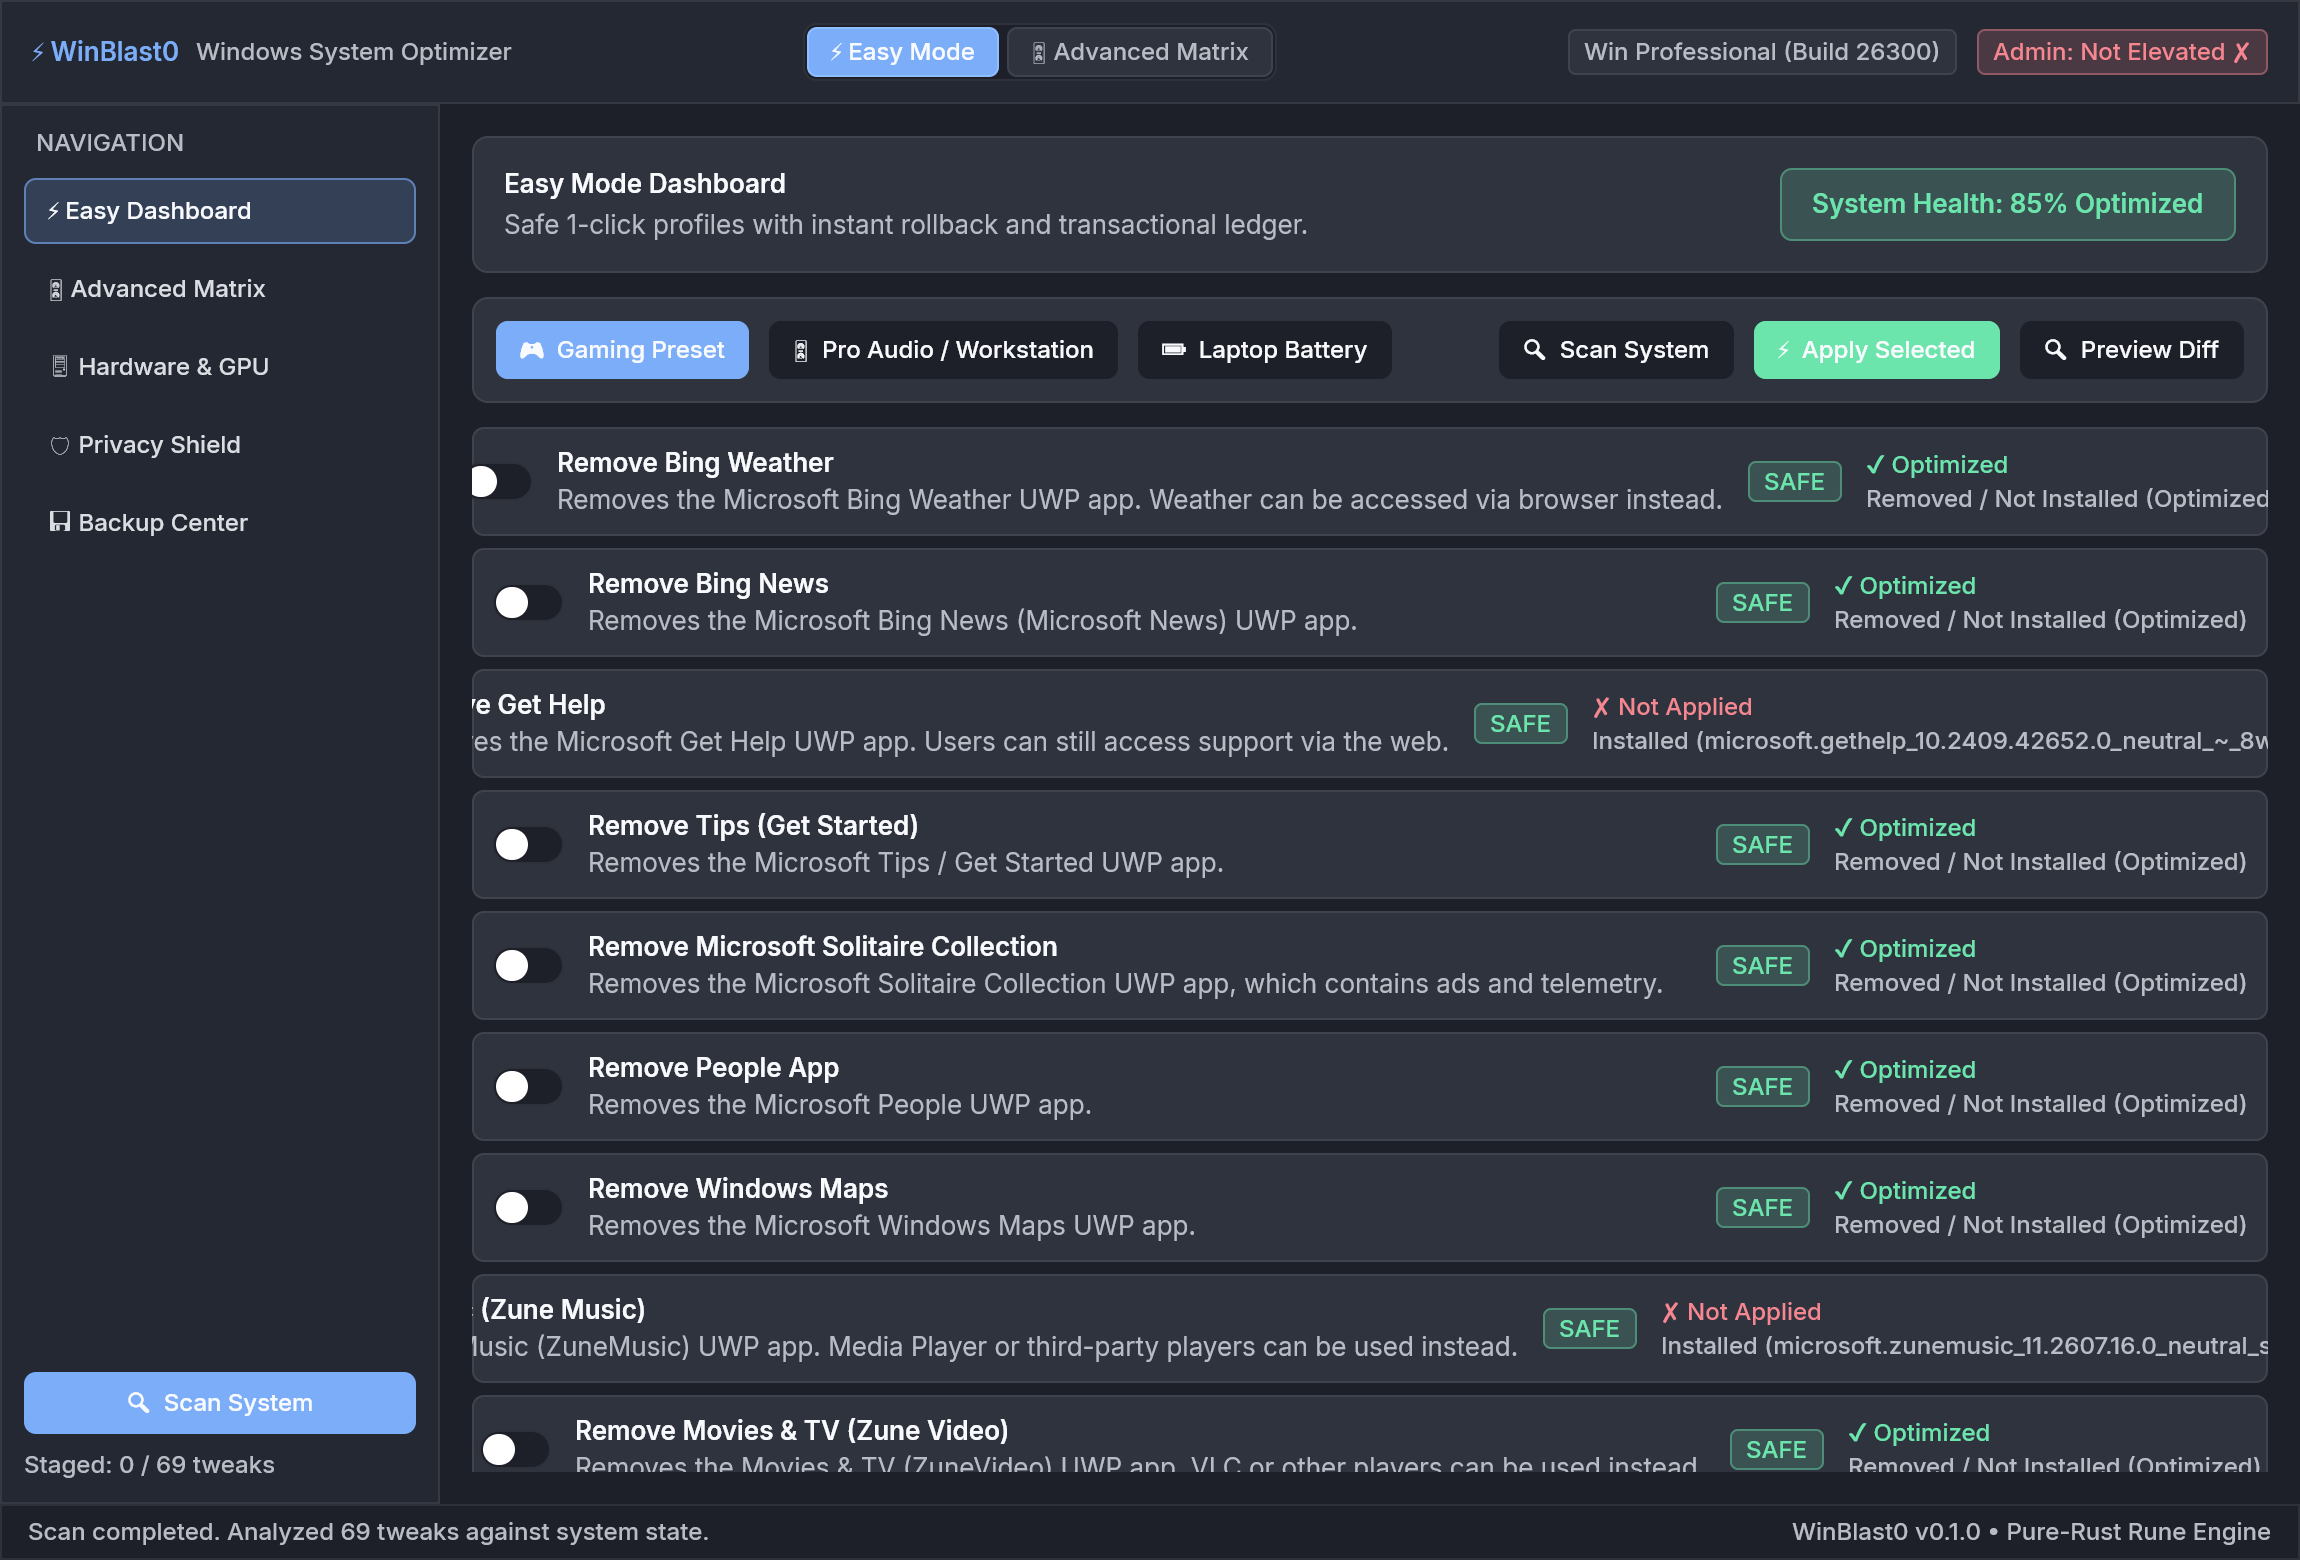
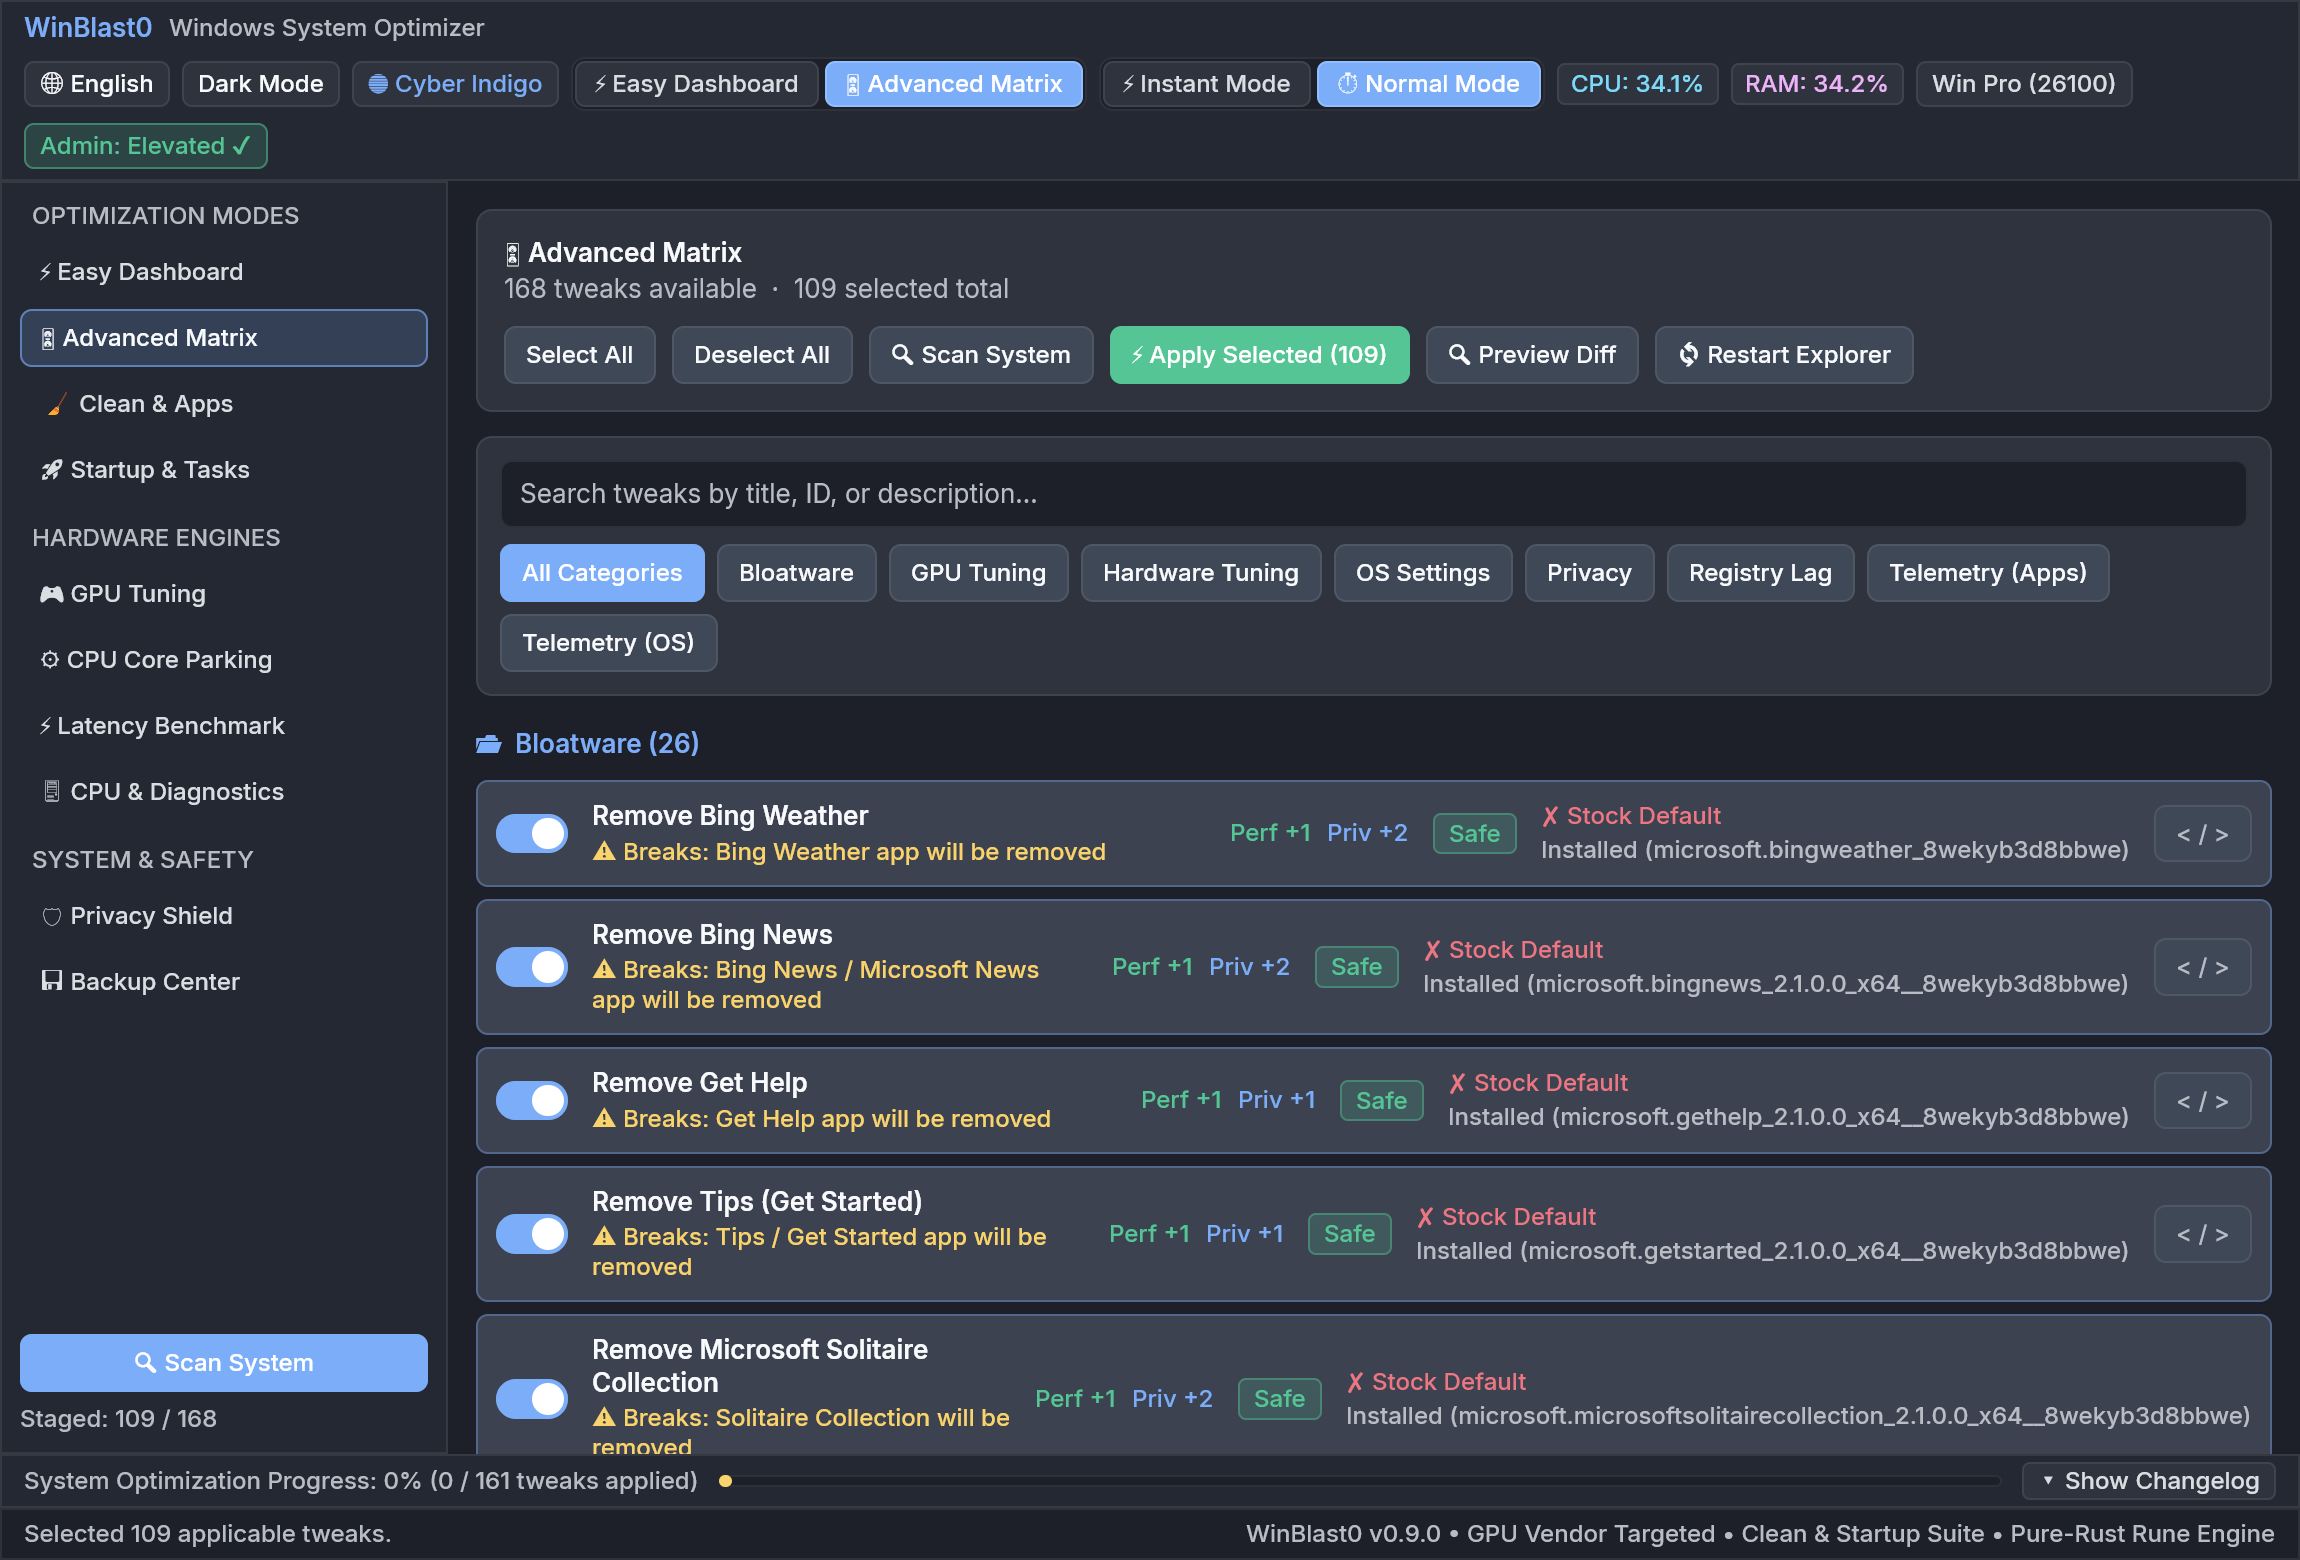
Docs: Replace Advanced Matrix and CPU Parking screenshots with authentic WinBlast0 v0.9.0 renders

diff --git a/tests/ui_responsive_e2e.rs b/tests/ui_responsive_e2e.rs
@@ -1455,6 +1455,65 @@ fn init_gpu_state() -> AppState {
     s
 }
 
+fn init_dashboard_state() -> AppState {
+    let mut s = build_populated_sandbox_state();
+    s.navigate(ActiveView::EasyDashboard);
+    s
+}
+
+#[test]
+fn snap_dashboard_view() {
+    let spec = rune::AppSpec::new(
+        "WinBlast0 Dashboard",
+        (1150.0, 780.0),
+        init_dashboard_state,
+        ui::view,
+    );
+    let out_path = std::path::Path::new("assets/screenshots/dashboard.png");
+    let res = rune::App::new(spec)
+        .args([
+            "--snap".to_string(),
+            out_path.to_string_lossy().to_string(),
+            "--size".to_string(),
+            "1150x780".to_string(),
+        ])
+        .try_run();
+    println!("Snap result: {:?}", res);
+    assert!(out_path.exists(), "Snapshot file should be created");
+}
+
+fn init_cpu_parking_state() -> AppState {
+    let mut s = build_populated_sandbox_state();
+    s.navigate(ActiveView::CoreParking);
+    let mut cores = Vec::new();
+    for i in 0..16 {
+        cores.push(winblast0::hardware::parking::CoreStatus {
+            core_index: i,
+            is_parked: i >= 12,
+            usage_pct: if i >= 12 { 0.0 } else { 18.0 + ((i * 5) % 40) as f32 },
+            core_type_label: if i < 8 { "P-Core".to_string() } else { "E-Core".to_string() },
+        });
+    }
+    s.core_parking = winblast0::hardware::parking::CoreParkingState {
+        total_cores: 16,
+        unparked_count: 12,
+        parked_count: 4,
+        min_cores_ac_pct: 100,
+        min_cores_dc_pct: 50,
+        max_cores_ac_pct: 100,
+        max_cores_dc_pct: 100,
+        is_fully_unparked: false,
+        is_hybrid_architecture: true,
+        cores,
+        on_ac_power: true,
+        pcore_min_ac_pct: Some(100),
+        pcore_min_dc_pct: Some(50),
+        pcore_max_ac_pct: Some(100),
+        pcore_max_dc_pct: Some(100),
+    };
+    s
+}
+
 #[test]
 fn snap_gpu_tuning_view() {
     let spec = rune::AppSpec::new(
@@ -1464,6 +1523,54 @@ fn snap_gpu_tuning_view() {
         ui::view,
     );
     let out_path = std::path::Path::new("assets/screenshots/gpu_tuning.png");
+    let res = rune::App::new(spec)
+        .args([
+            "--snap".to_string(),
+            out_path.to_string_lossy().to_string(),
+            "--size".to_string(),
+            "1150x780".to_string(),
+        ])
+        .try_run();
+    println!("Snap result: {:?}", res);
+    assert!(out_path.exists(), "Snapshot file should be created");
+}
+
+fn init_matrix_state() -> AppState {
+    let mut s = build_populated_sandbox_state();
+    s.navigate(ActiveView::AdvancedMatrix);
+    s
+}
+
+#[test]
+fn snap_advanced_matrix_view() {
+    let spec = rune::AppSpec::new(
+        "WinBlast0 Advanced Matrix",
+        (1150.0, 780.0),
+        init_matrix_state,
+        ui::view,
+    );
+    let out_path = std::path::Path::new("assets/screenshots/advanced_matrix.png");
+    let res = rune::App::new(spec)
+        .args([
+            "--snap".to_string(),
+            out_path.to_string_lossy().to_string(),
+            "--size".to_string(),
+            "1150x780".to_string(),
+        ])
+        .try_run();
+    println!("Snap result: {:?}", res);
+    assert!(out_path.exists(), "Snapshot file should be created");
+}
+
+#[test]
+fn snap_cpu_parking_view() {
+    let spec = rune::AppSpec::new(
+        "WinBlast0 CPU Parking",
+        (1150.0, 780.0),
+        init_cpu_parking_state,
+        ui::view,
+    );
+    let out_path = std::path::Path::new("assets/screenshots/cpu_parking.png");
     let res = rune::App::new(spec)
         .args([
             "--snap".to_string(),

diff --git a/README.md b/README.md
@@ -37,7 +37,7 @@
 <br/><br/>
 
 ### ⚡ CPU Core Parking & Hybrid Architecture Visualizer
-<img src="assets/screenshots/cpu_parking.jpg" alt="CPU Core Parking" width="900" />
+<img src="assets/screenshots/cpu_parking.png" alt="CPU Core Parking" width="900" />
 
 <br/><br/>
 
